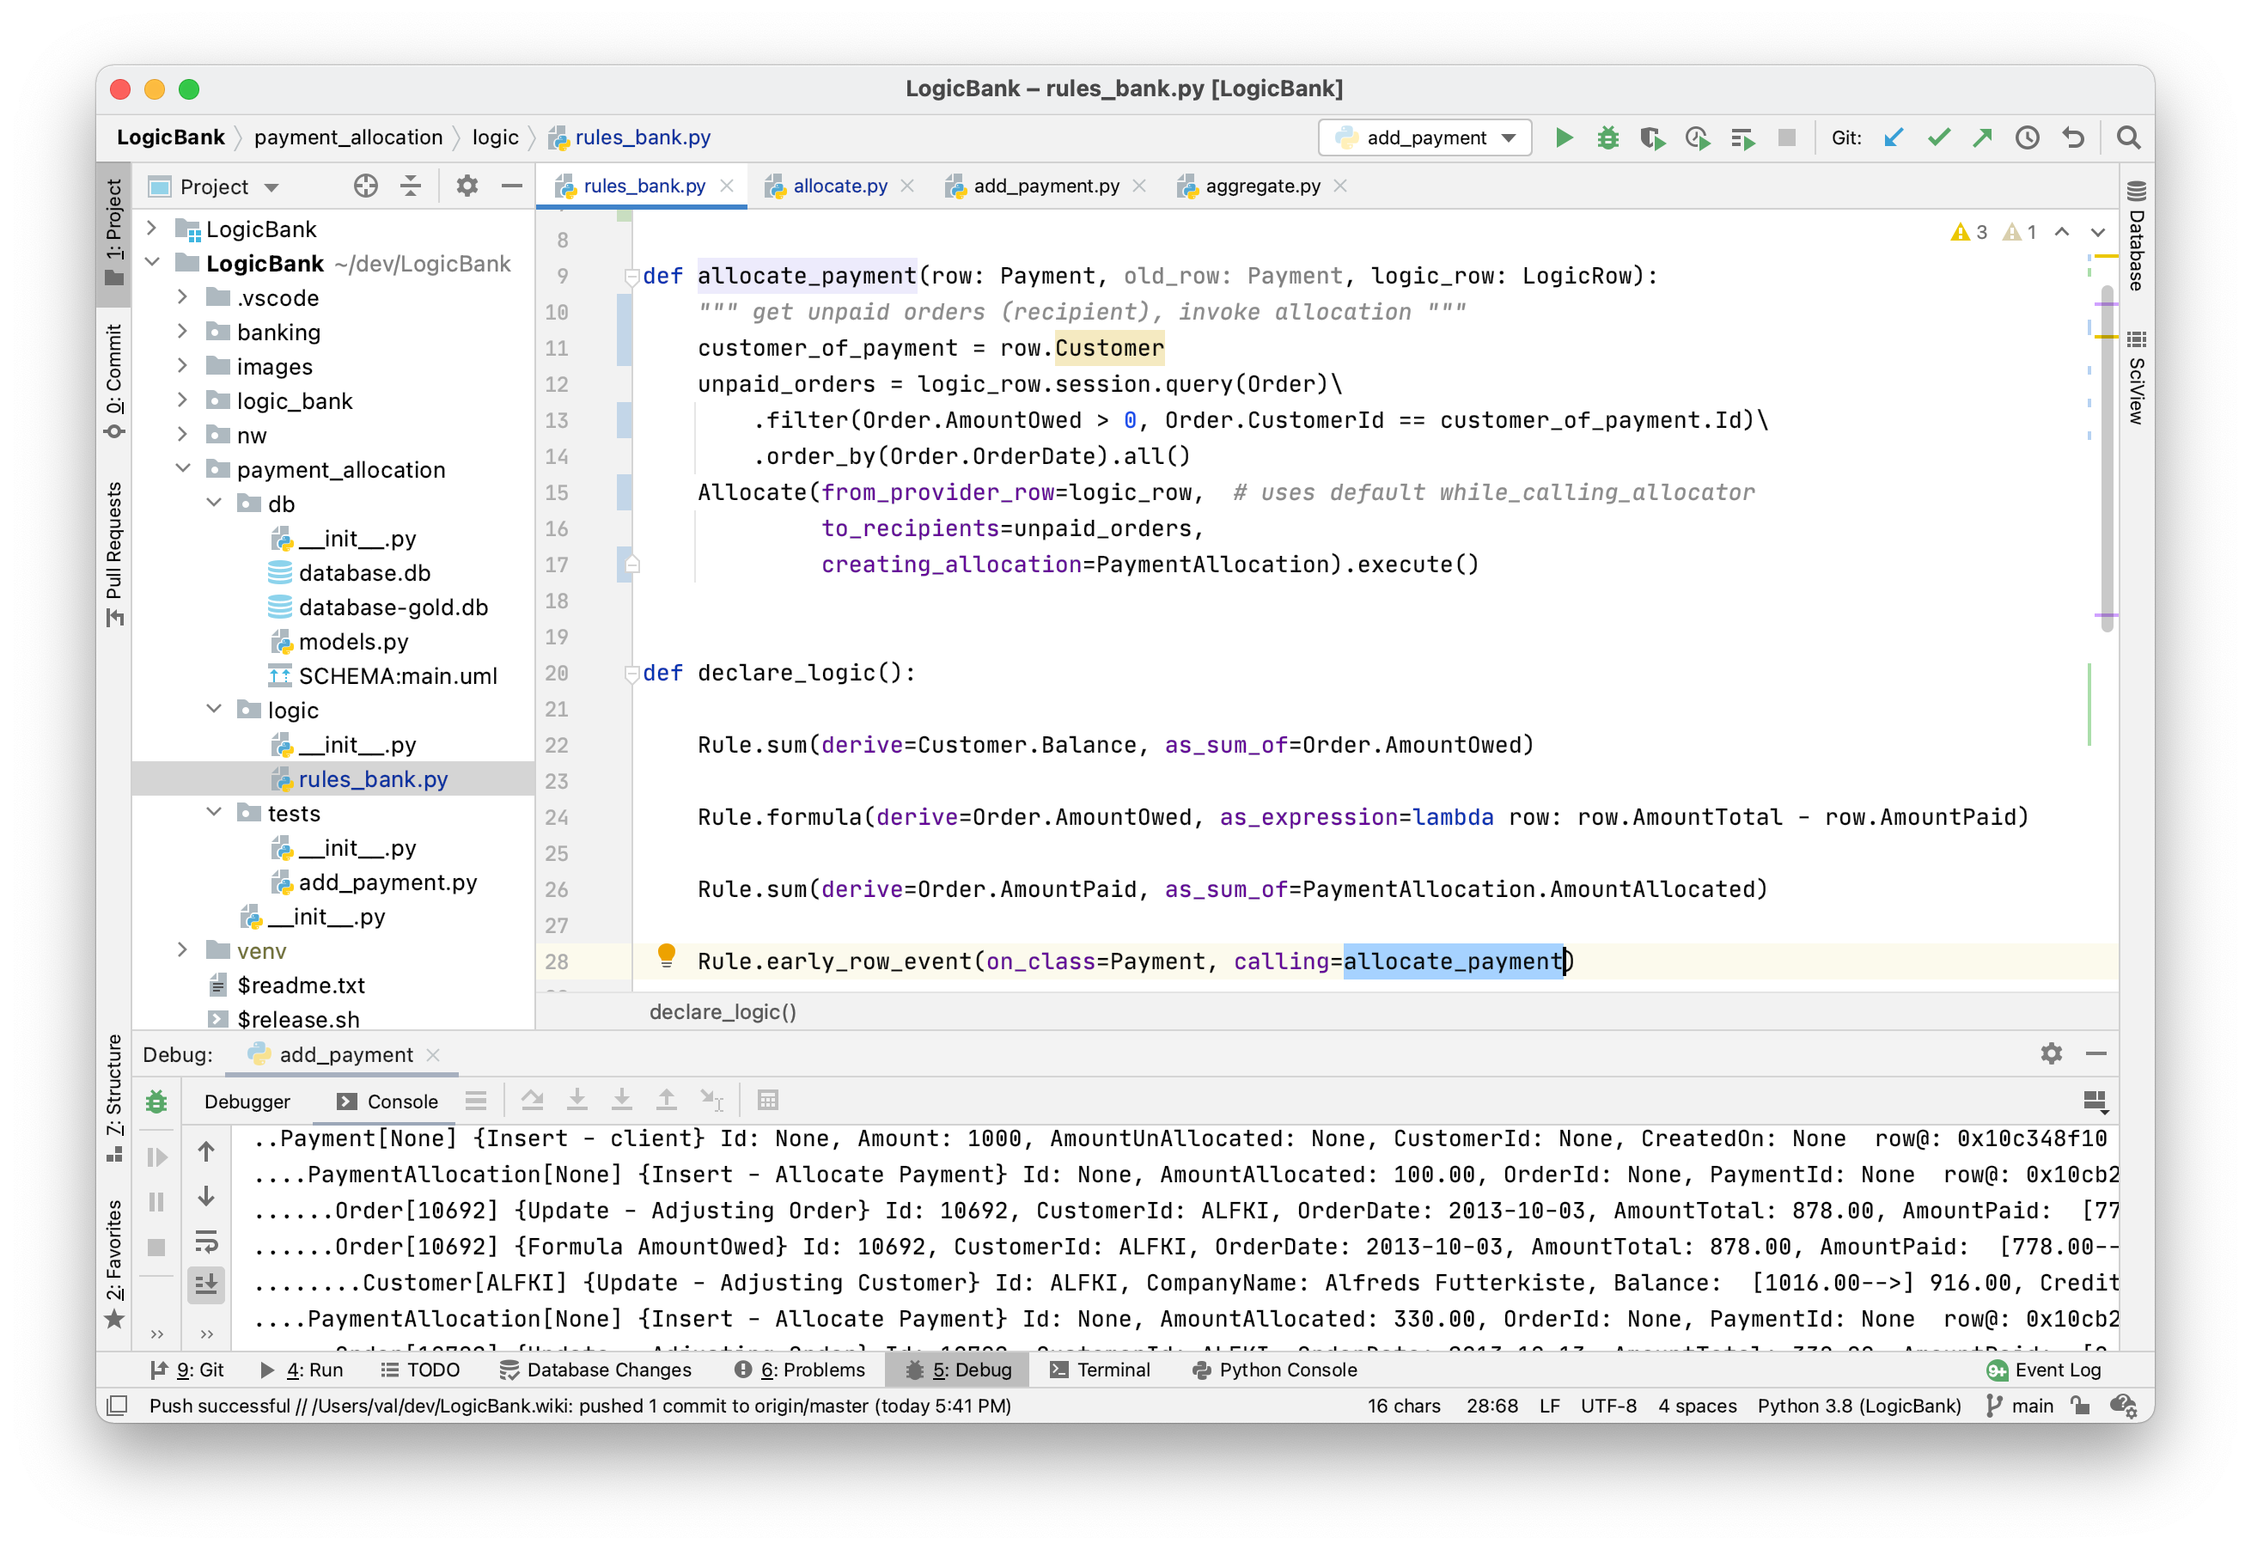
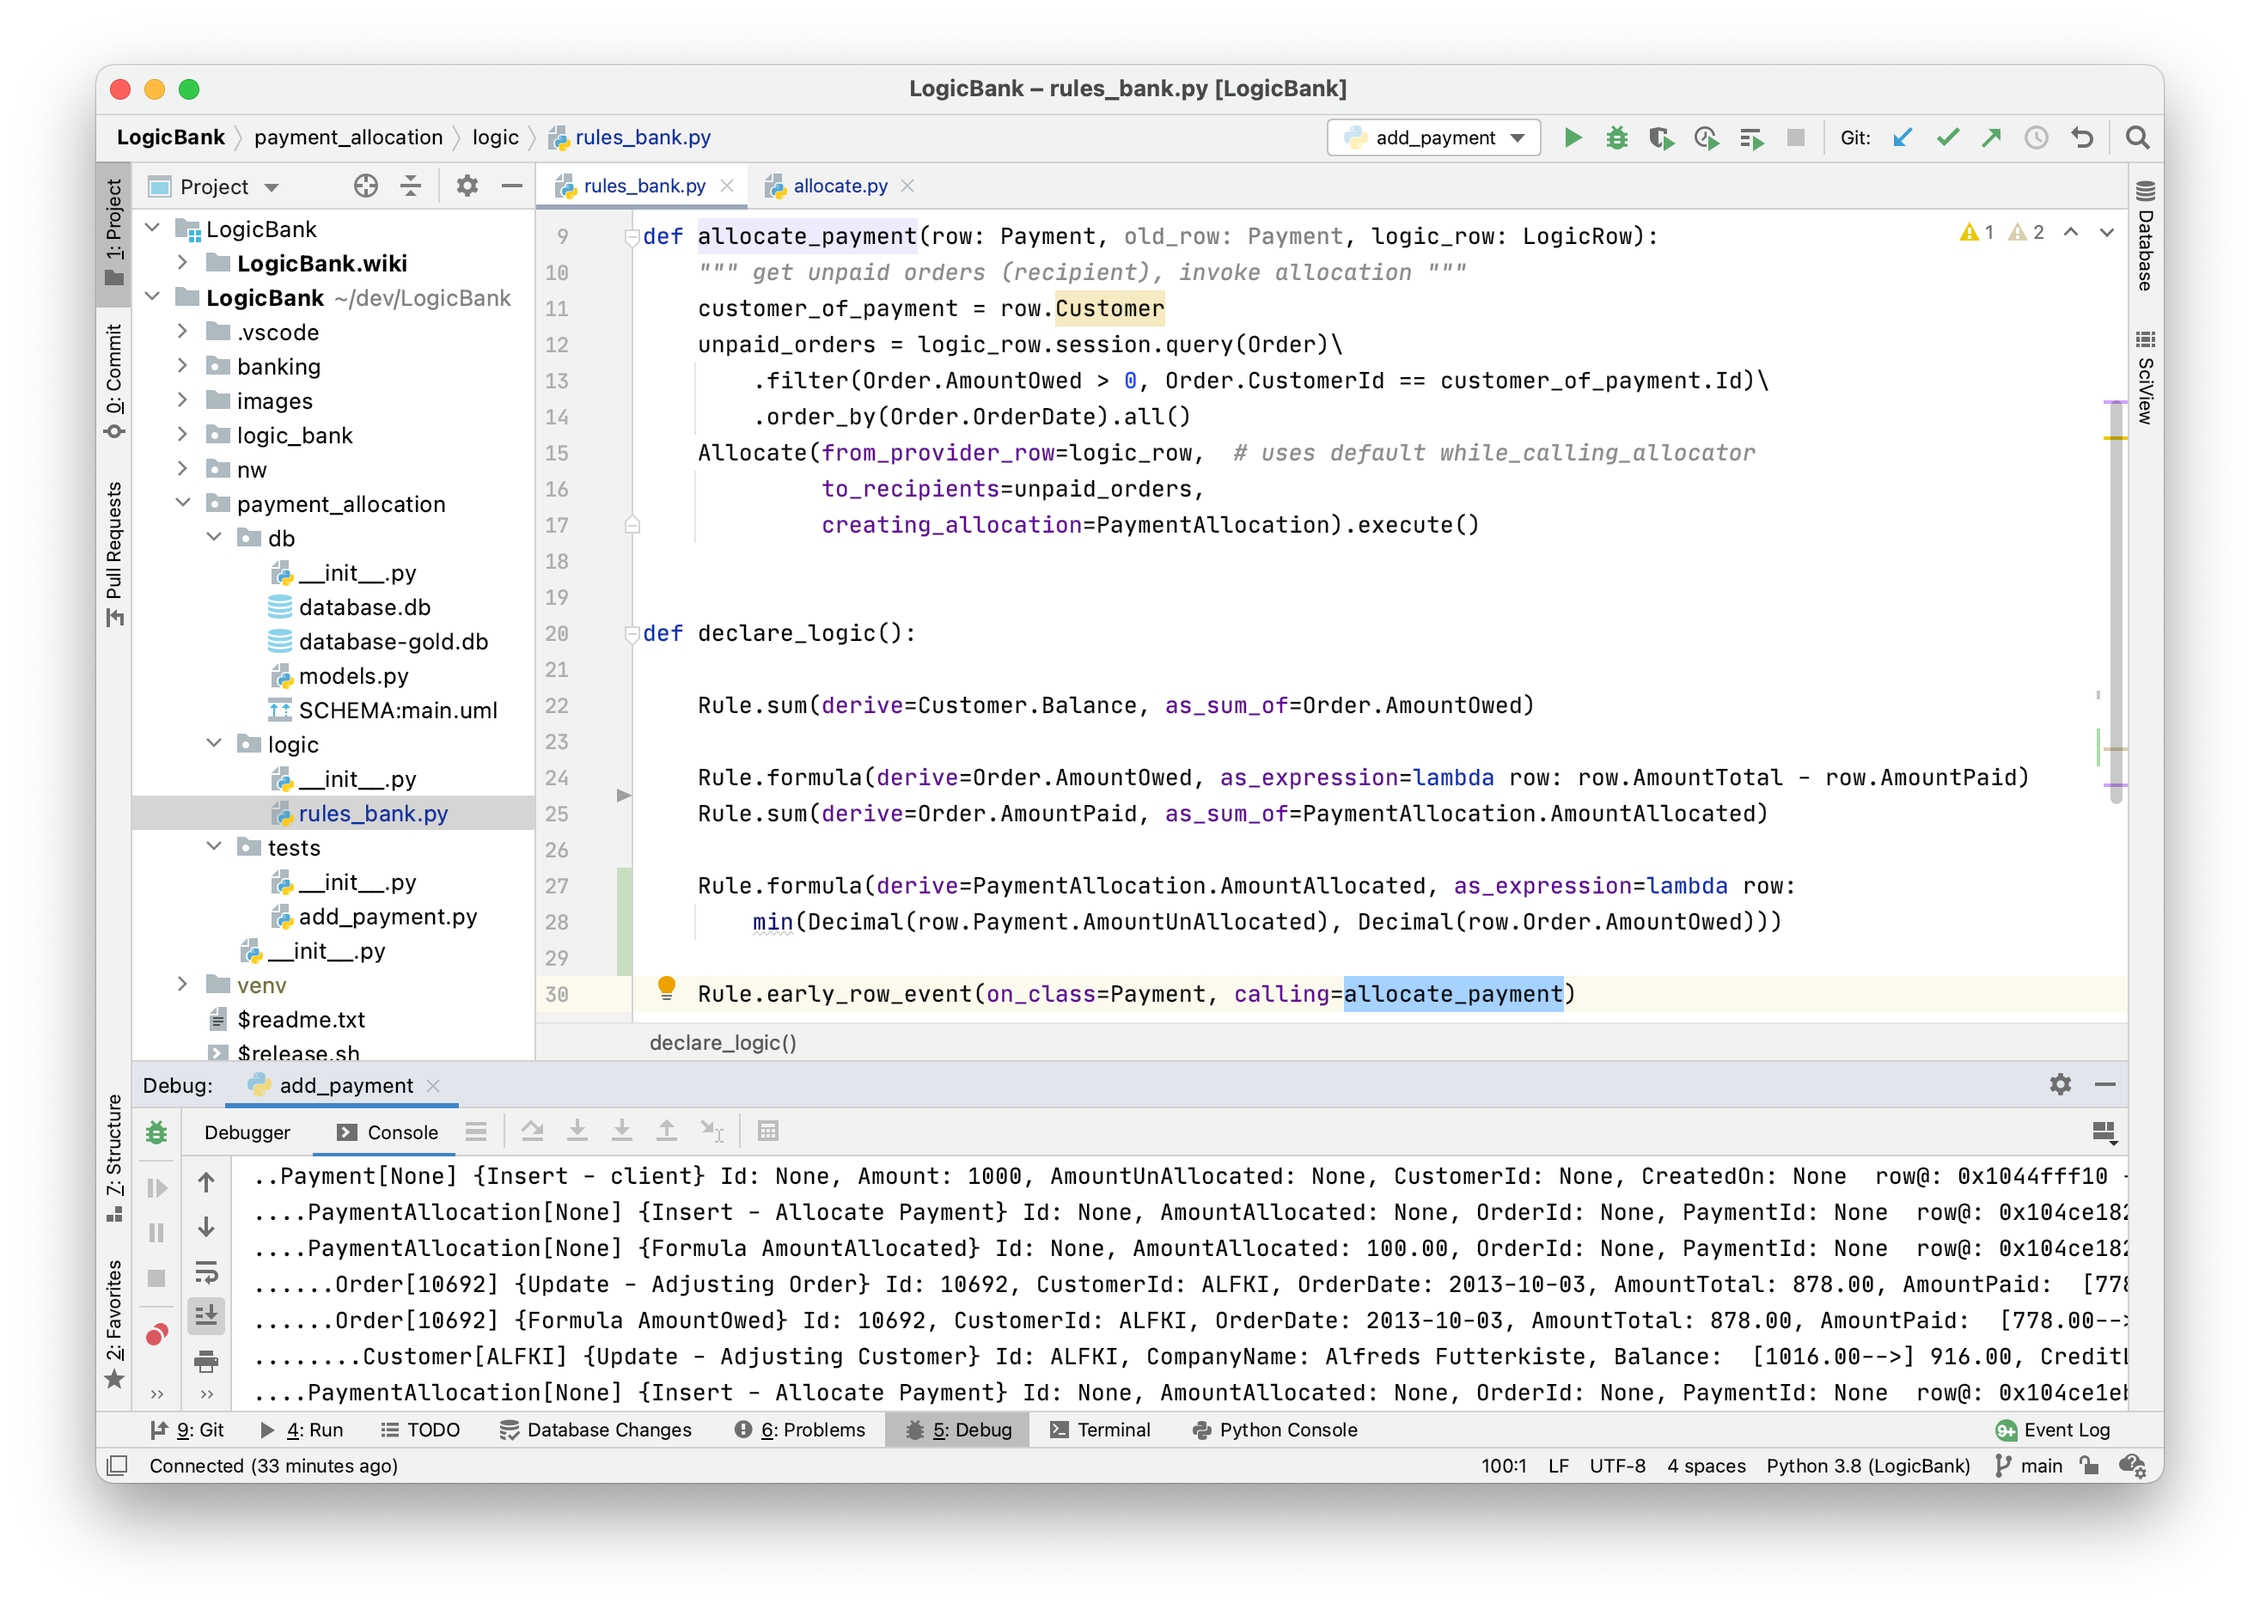
simplify allocation

diff --git a/logic_bank/extensions/allocate.py b/logic_bank/extensions/allocate.py
@@ -51,28 +51,30 @@ class Allocate():
             else:
                 allocator = self.while_calling_allocator_default(new_allocation_logic_row,
                                                                  self.from_provider_row)
-            new_allocation_logic_row.insert(reason="Allocate " + self.from_provider_row.name)
             if not allocator:
                 break
         return self
 
     def while_calling_allocator_default(self, allocation_logic_row, provider_logic_row) -> bool:
         """
-        Called for each created allocation,
-        to compute Allocation.AmountAllocated and reduce Provider.AmountUnAllocated
+        Called for each created allocation, to
+        compute Allocation.AmountAllocated (by running rules), and
+        reduce Provider.AmountUnAllocated
 
-        This uses default names; to use your names, copy this code and alter as as required
+        This uses default names:
+        provider.Amount
+        provider.AmountUnallocated
+        allocation.AmountAllocated
+
+        To use your names, copy this code and alter as as required
 
         :param allocation_logic_row: allocation row being created
         :param provider_logic_row: provider
         :return: provider has AmountUnAllocated remaining
         """
-        if provider_logic_row.row.AmountUnAllocated is None:
-            provider_logic_row.row.AmountUnAllocated = provider_logic_row.row.Amount
-        amount = min(Decimal(provider_logic_row.row.AmountUnAllocated),
-                     Decimal(allocation_logic_row.row.Order.AmountOwed))
+        allocation_logic_row.insert(reason="Allocate " + provider_logic_row.name)
+
         provider_logic_row.row.AmountUnAllocated = \
-            provider_logic_row.row.AmountUnAllocated - amount
-        allocation_logic_row.row.AmountAllocated = amount
-        any_left = provider_logic_row.row.AmountUnAllocated > 0
-        return any_left
+            provider_logic_row.row.AmountUnAllocated - allocation_logic_row.row.AmountAllocated
+
+        return provider_logic_row.row.AmountUnAllocated > 0  #  terminate allocation loop if none left

diff --git a/payment_allocation/logic/rules_bank.py b/payment_allocation/logic/rules_bank.py
@@ -12,6 +12,7 @@ def allocate_payment(row: Payment, old_row: Payment, logic_row: LogicRow):
     unpaid_orders = logic_row.session.query(Order)\
         .filter(Order.AmountOwed > 0, Order.CustomerId == customer_of_payment.Id)\
         .order_by(Order.OrderDate).all()
+    row.AmountUnAllocated = row.Amount
     Allocate(from_provider_row=logic_row,  # uses default while_calling_allocator
              to_recipients=unpaid_orders,
              creating_allocation=PaymentAllocation).execute()
@@ -22,8 +23,10 @@ def declare_logic():
     Rule.sum(derive=Customer.Balance, as_sum_of=Order.AmountOwed)
 
     Rule.formula(derive=Order.AmountOwed, as_expression=lambda row: row.AmountTotal - row.AmountPaid)
-
     Rule.sum(derive=Order.AmountPaid, as_sum_of=PaymentAllocation.AmountAllocated)
+
+    Rule.formula(derive=PaymentAllocation.AmountAllocated, as_expression=lambda row:
+        min(Decimal(row.Payment.AmountUnAllocated), Decimal(row.Order.AmountOwed)))
 
     Rule.early_row_event(on_class=Payment, calling=allocate_payment)
 
